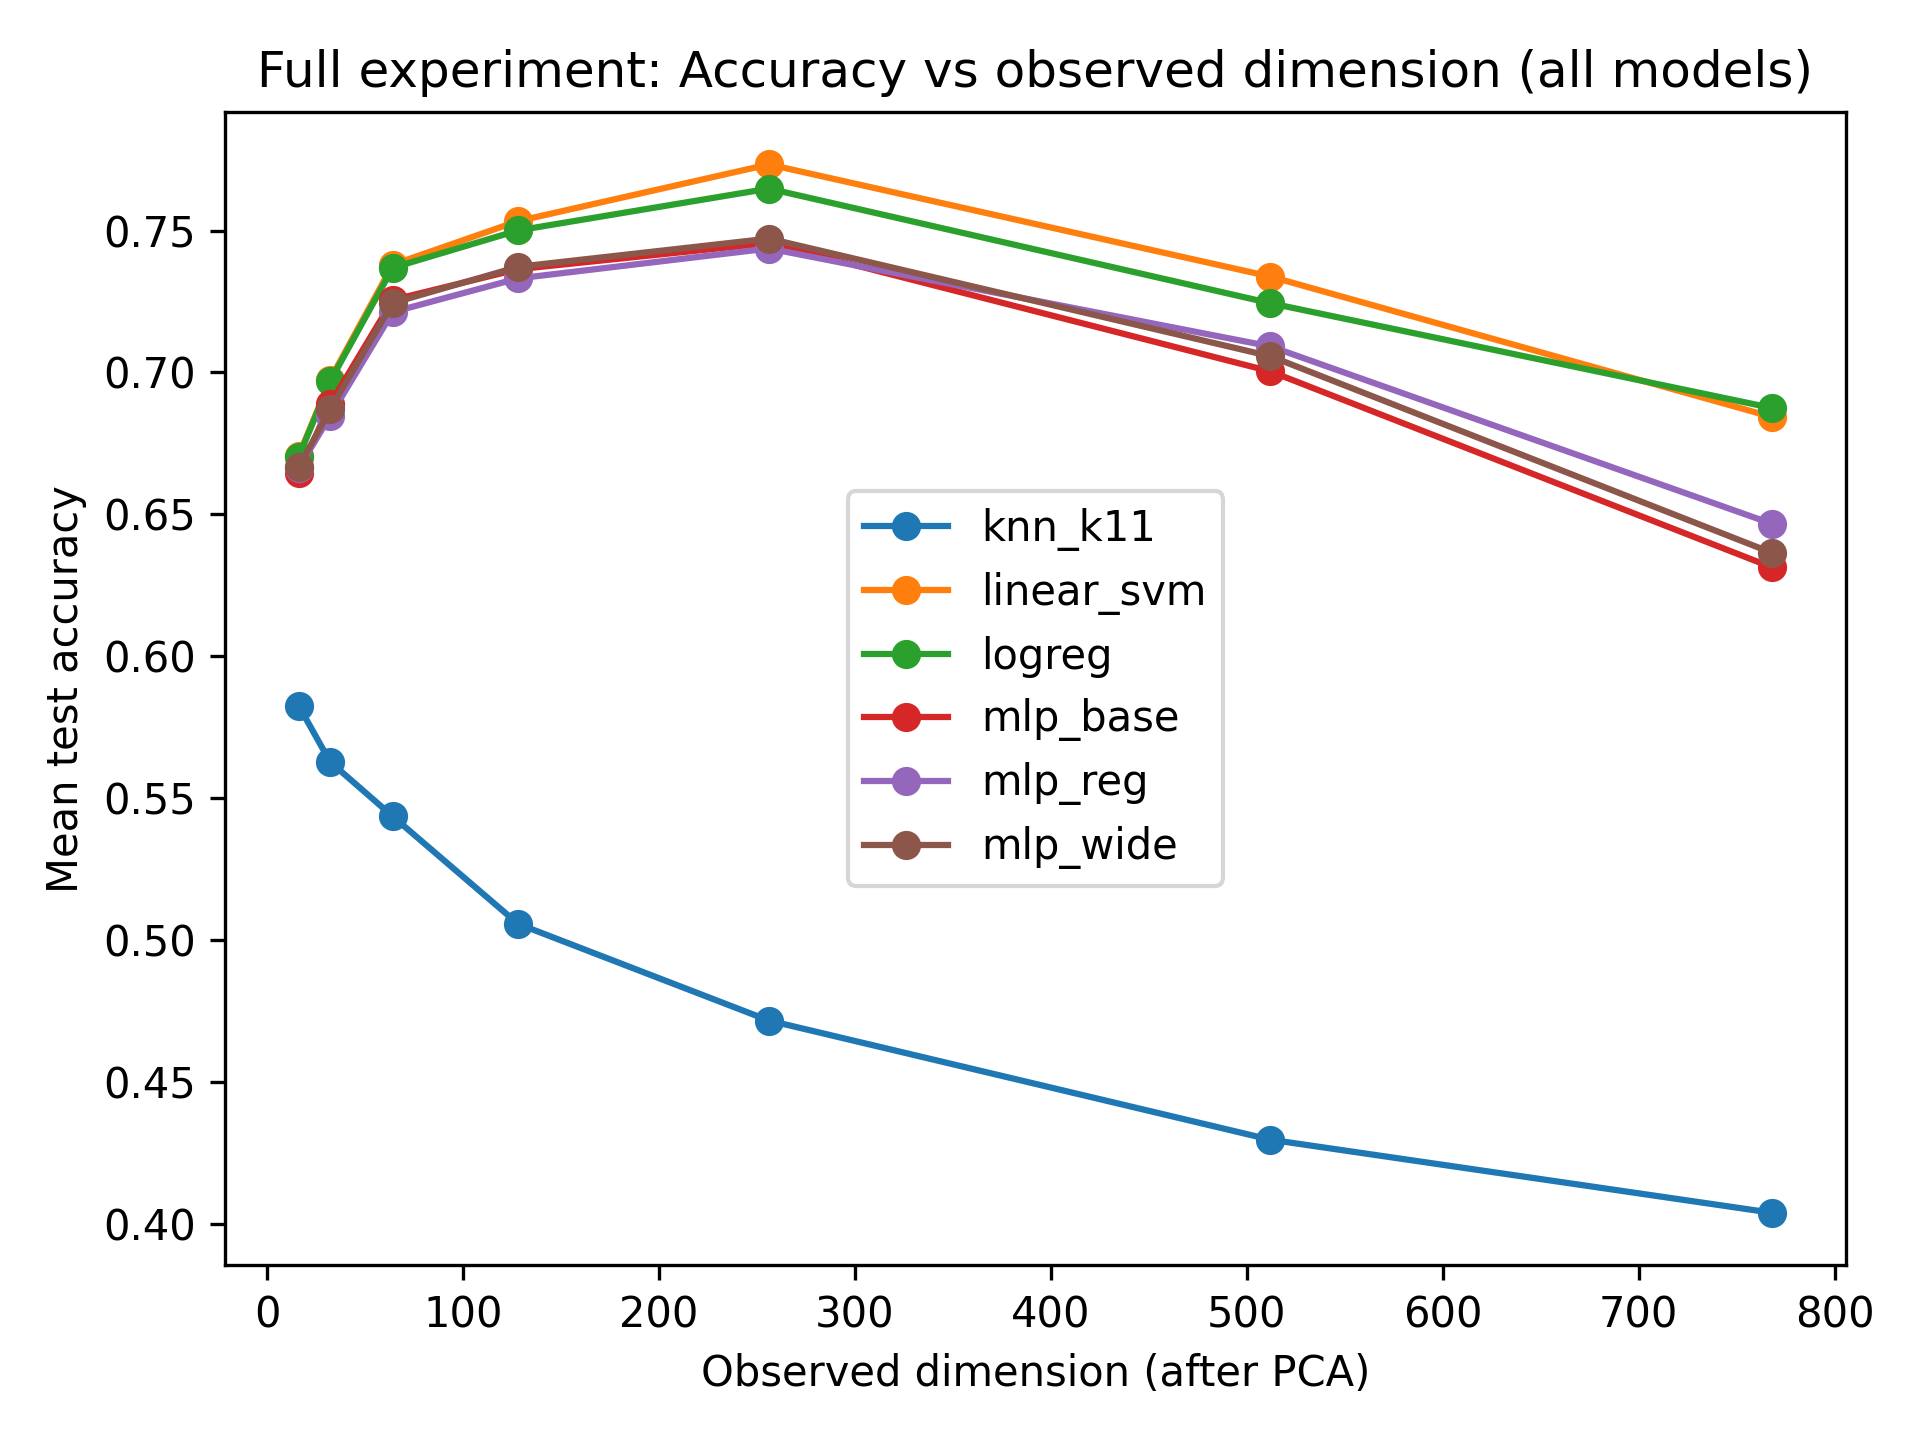
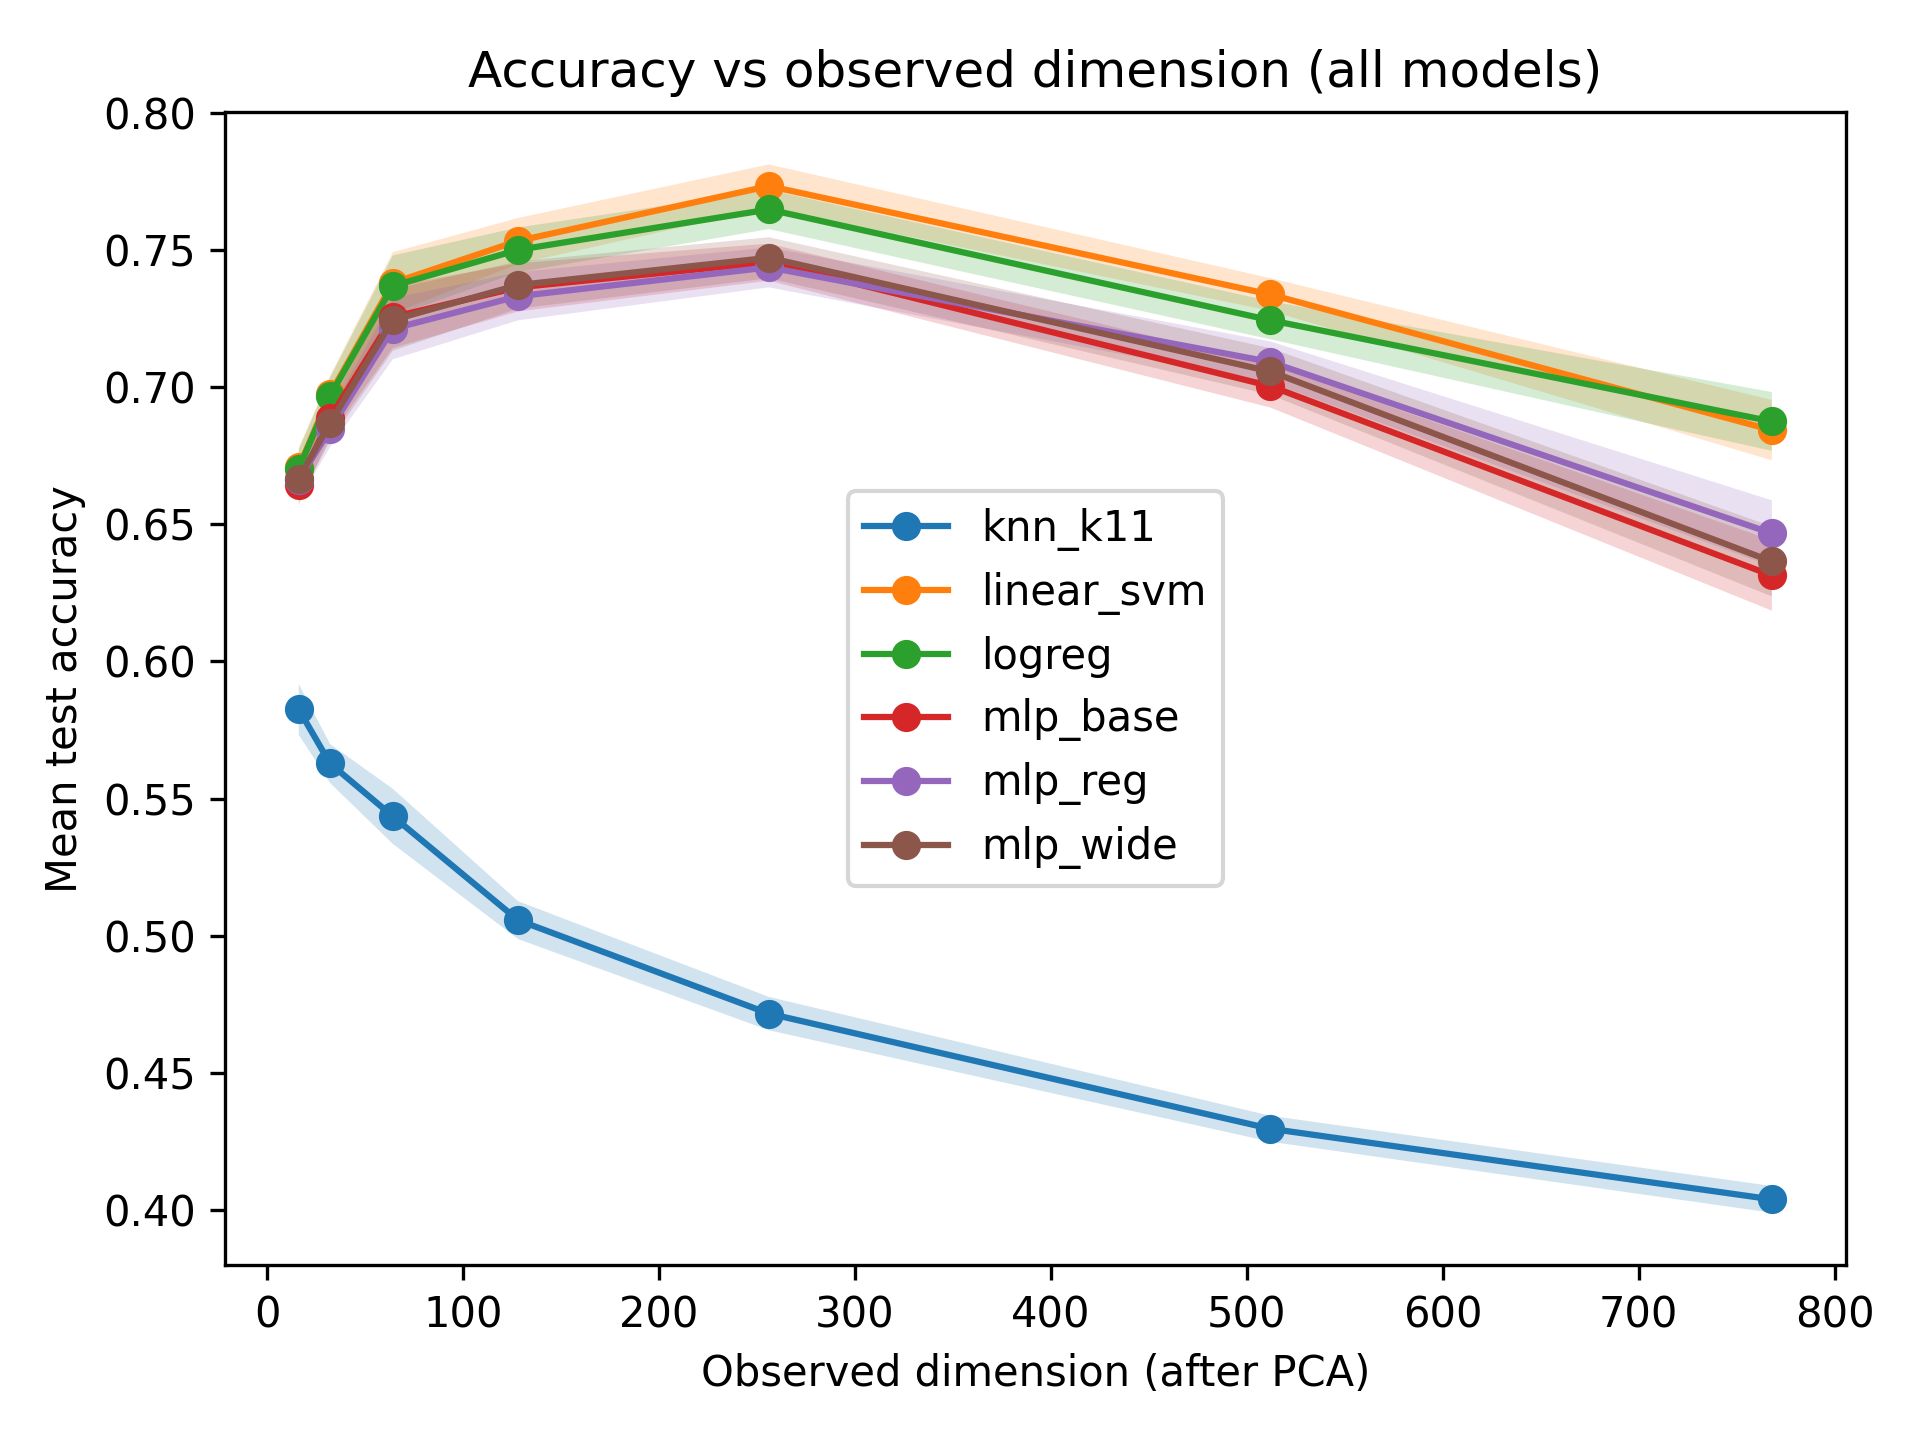
Added CI bands to all plots

diff --git a/src/analysis.py b/src/analysis.py
@@ -209,18 +209,20 @@ def plot_combined_three_curves(
 
 
 def plot_all_models_mean_curve_from_raw(
-        df_raw: pd.DataFrame,
-        y_col: str,
-        ylabel: str,
-        title: str,
-        output_path: str,
-        filter_intrinsic_dim: int | None = None,
+    df_raw: pd.DataFrame,
+    y_col: str,
+    ylabel: str,
+    title: str,
+    output_path: str,
+    ci_z: float = 1.96,
+    filter_intrinsic_dim: int | None = None,
 ) -> None:
     """
-    Plot mean metric vs observed_dim with one curve per model,
+    Plot mean metric vs observed_dim with one curve per model, including 95% CI bands,
     aggregated across seeds. Optionally filter to a single intrinsic_dim.
 
-    This is the full-run version of the smoke-test diagnostic plots.
+    This is the full-run version of the smoke-style comparison plots, but suitable for
+    the paper because it includes confidence intervals.
     """
     ensure_dir(os.path.dirname(output_path))
 
@@ -234,15 +236,27 @@ def plot_all_models_mean_curve_from_raw(
 
     summary = (
         df.groupby(["observed_dim", "model"], dropna=False)[y_col]
-        .agg(["mean", "std", "count"])
+        .agg(mean="mean", std="std", n="count")
         .reset_index()
         .sort_values(["model", "observed_dim"])
     )
 
+    # Replace NaN std (happens when n=1) with 0.0
+    summary["std"] = summary["std"].fillna(0.0)
+    summary["se"] = summary["std"] / np.sqrt(summary["n"])
+    summary["ci_low"] = summary["mean"] - ci_z * summary["se"]
+    summary["ci_high"] = summary["mean"] + ci_z * summary["se"]
+
     plt.figure()
     for model in sorted(summary["model"].unique()):
         sub = summary[summary["model"] == model].sort_values("observed_dim")
-        plt.plot(sub["observed_dim"], sub["mean"], marker="o", label=model)
+        x = sub["observed_dim"].to_numpy()
+        y = sub["mean"].to_numpy()
+        lo = sub["ci_low"].to_numpy()
+        hi = sub["ci_high"].to_numpy()
+
+        plt.fill_between(x, lo, hi, alpha=0.2)
+        plt.plot(x, y, marker="o", label=model)
 
     xlabel = "Observed dimension (after PCA)"
     if filter_intrinsic_dim is not None:
@@ -261,28 +275,6 @@ def run_phase5(cfg: AnalysisConfig) -> None:
     """Run Phase 5 end-to-end: load -> aggregate -> save -> plot."""
     df_raw = load_results(cfg.raw_results_path)
     df_summary = aggregate_results(df_raw, ci_z=cfg.ci_z)
-
-
-
-    df_summary = pd.read_csv("../results/aggregated/results_summary.csv")
-
-    print("Columns:", df_summary.columns.tolist())
-    print("Unique models:", df_summary["model"].unique())
-    print("Unique intrinsic dims:", df_summary["intrinsic_dim"].unique())
-    print("Unique observed dims:", df_summary["observed_dim"].unique())
-
-    # Check whether contrast columns exist and are non-null
-    contrast_cols = [c for c in df_summary.columns if "contrast" in c]
-    print("Contrast-related columns:", contrast_cols)
-
-    if "contrast_mean" in df_summary.columns:
-        print("Non-null contrast_mean rows:", df_summary["contrast_mean"].notna().sum())
-
-    # Check if the model you plotted actually exists
-    target_model = "logreg"  # or whatever you passed into plot_combined_three_curves
-    print("Rows for model:", target_model, "=>", (df_summary["model"] == target_model).sum())
-
-
 
     save_summary(df_summary, cfg.summary_path)
 
@@ -349,8 +341,9 @@ def run_phase5(cfg: AnalysisConfig) -> None:
         df_raw=df_raw,
         y_col="test_accuracy",
         ylabel="Mean test accuracy",
-        title="Full experiment: Accuracy vs observed dimension (all models)",
+        title="Accuracy vs observed dimension (all models)",
         output_path=os.path.join(cfg.figures_dir, "accuracy_vs_dimension_all_models.png"),
+        ci_z=cfg.ci_z,
         filter_intrinsic_dim=None,  # aggregate across all intrinsic dims
     )
 
@@ -358,10 +351,32 @@ def run_phase5(cfg: AnalysisConfig) -> None:
         df_raw=df_raw,
         y_col="generalization_gap",
         ylabel="Mean generalization gap (train - test)",
-        title="Full experiment: Generalization gap vs observed dimension (all models)",
+        title="Generalization gap vs observed dimension (all models)",
         output_path=os.path.join(cfg.figures_dir, "generalization_gap_vs_dimension_all_models.png"),
+        ci_z=cfg.ci_z,
         filter_intrinsic_dim=None,
     )
+
+    for d_star in sorted(df_raw["intrinsic_dim"].unique()):
+        plot_all_models_mean_curve_from_raw(
+            df_raw=df_raw,
+            y_col="test_accuracy",
+            ylabel="Mean test accuracy",
+            title=f"Accuracy vs observed dimension (all models), d*={d_star}",
+            output_path=os.path.join(cfg.figures_dir, f"accuracy_vs_dimension_all_models_dstar_{d_star}.png"),
+            ci_z=cfg.ci_z,
+            filter_intrinsic_dim=int(d_star),
+        )
+
+        plot_all_models_mean_curve_from_raw(
+            df_raw=df_raw,
+            y_col="generalization_gap",
+            ylabel="Mean generalization gap (train - test)",
+            title=f"Generalization gap vs observed dimension (all models), d*={d_star}",
+            output_path=os.path.join(cfg.figures_dir, f"generalization_gap_vs_dimension_all_models_dstar_{d_star}.png"),
+            ci_z=cfg.ci_z,
+            filter_intrinsic_dim=int(d_star),
+        )
 
 
     print(f"Saved summary CSV to: {cfg.summary_path}")
